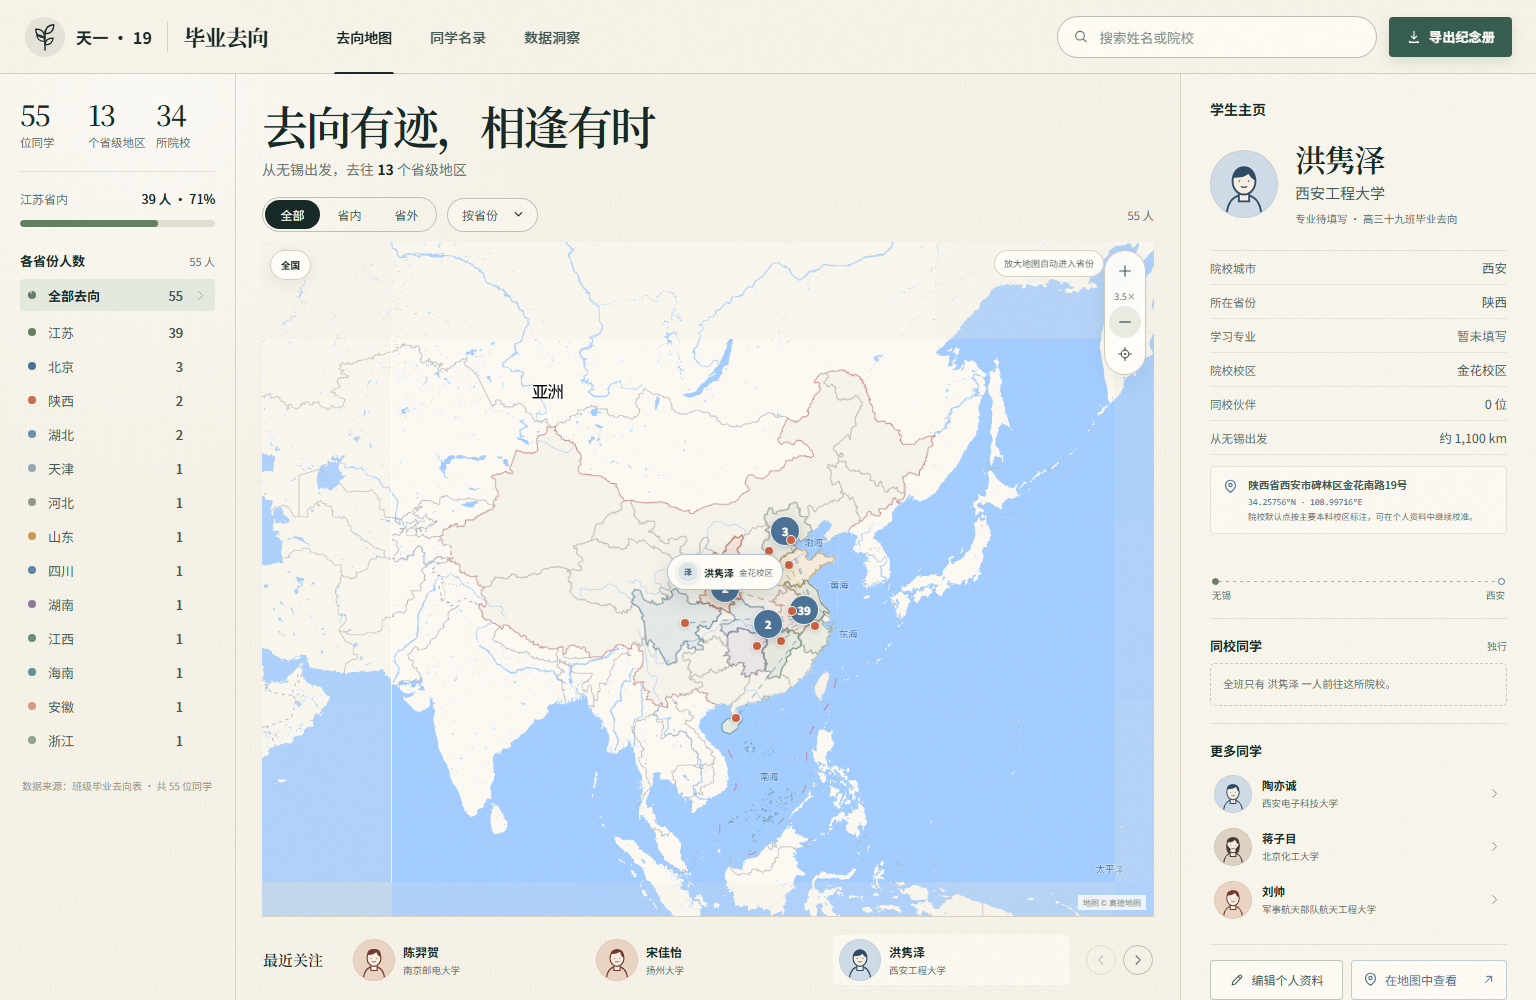
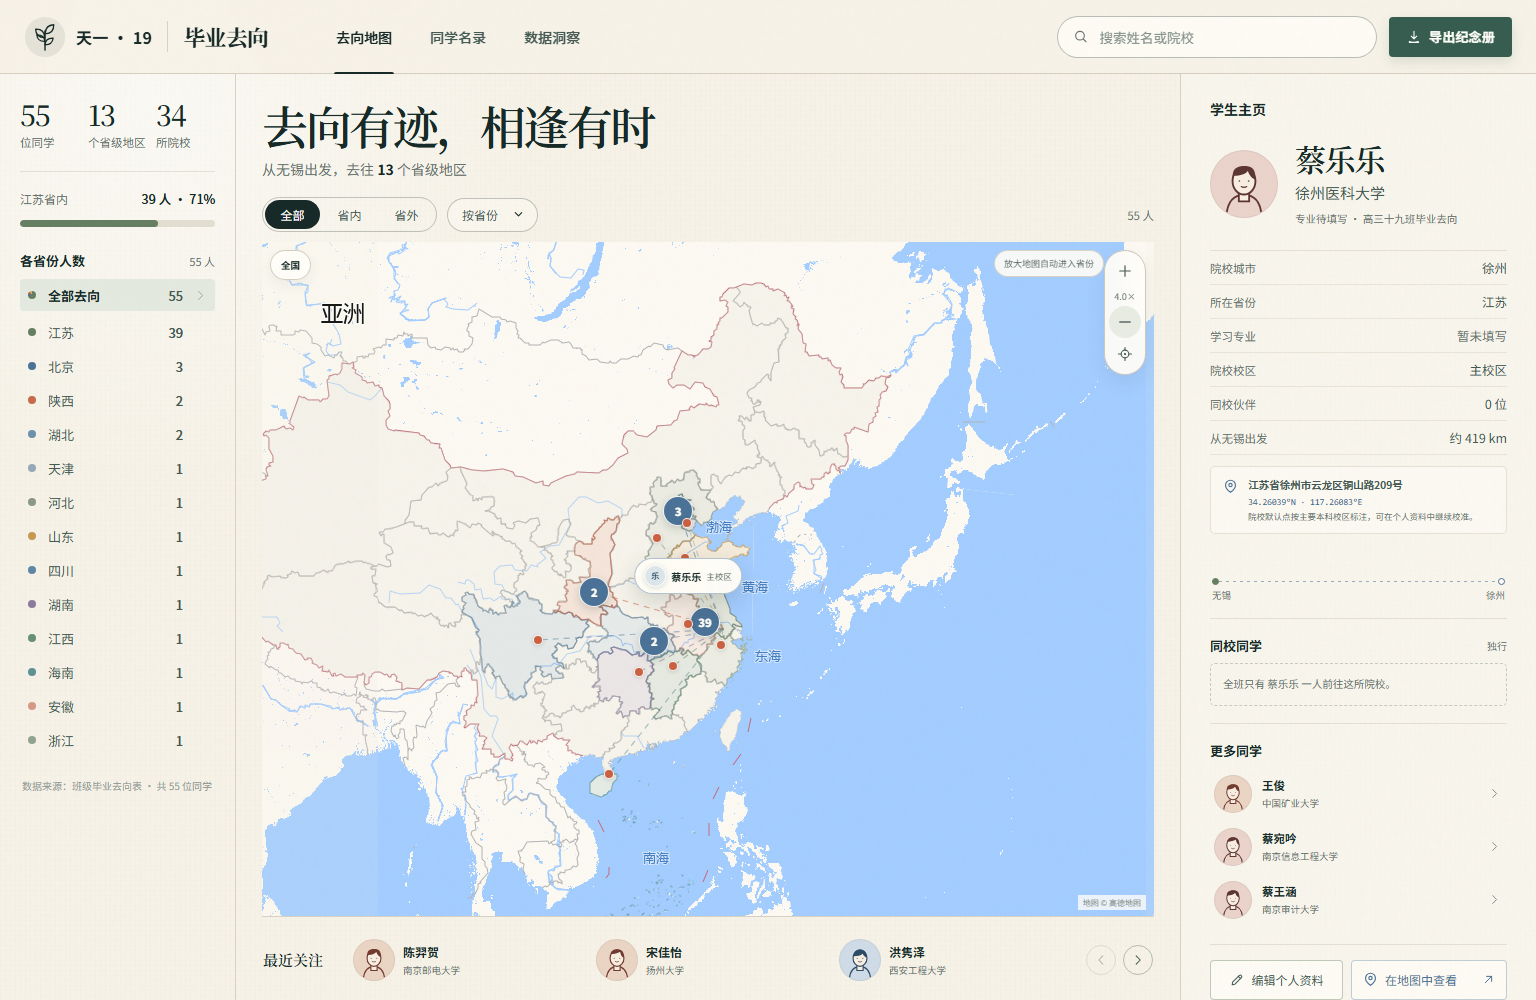
Sync map hierarchy with viewport movement

diff --git a/src/components/LeafletChinaMap.jsx b/src/components/LeafletChinaMap.jsx
@@ -15,6 +15,7 @@ const DEFAULT_ZOOM = 4;
 const AUTO_COUNTRY_ZOOM = 4.25;
 const AUTO_PROVINCE_ZOOM = 5.25;
 const AUTO_CITY_ZOOM = 9.25;
+const AUTO_CITY_EXIT_ZOOM = 8.25;
 
 function normalizeProvinceName(name) {
   return name
@@ -67,6 +68,7 @@ export default function LeafletChinaMap({
   focusRequest,
   onProvinceSelect,
   onCitySelect,
+  onAutoRegionChange,
   onStudentOpen,
   schoolOpenRequest,
   onZoomChange,
@@ -89,9 +91,12 @@ export default function LeafletChinaMap({
   const handlersRef = useRef({
     onProvinceSelect,
     onCitySelect,
+    onAutoRegionChange,
     onStudentOpen,
     onResetMapContext,
   });
+  const suppressNextFocusRef = useRef(false);
+  const autoRegionRequestLockRef = useRef(false);
   const [zoom, setZoom] = useState(DEFAULT_ZOOM);
   const [tilesFailed, setTilesFailed] = useState(false);
   const [compactMarkers, setCompactMarkers] = useState(
@@ -116,10 +121,39 @@ export default function LeafletChinaMap({
   }, [filteredStudents]);
   const resolvedCityCoordinatesRef = useRef(resolvedCityCoordinates);
   resolvedCityCoordinatesRef.current = resolvedCityCoordinates;
+  const cityRegionIndex = useMemo(() => {
+    const grouped = new Map();
+    provinceStudents.forEach((student) => {
+      const entry = grouped.get(student.city) ?? {
+        city: student.city,
+        province: student.province,
+        points: [],
+      };
+      entry.points.push(student.coordinates);
+      grouped.set(student.city, entry);
+    });
+    return new Map(
+      [...grouped.entries()].map(([city, entry]) => {
+        const staticCoordinates = cityCoordinates[city];
+        const coordinates = staticCoordinates
+          ? [staticCoordinates[1], staticCoordinates[0]]
+          : [
+              entry.points.reduce((sum, point) => sum + point[0], 0) /
+                entry.points.length,
+              entry.points.reduce((sum, point) => sum + point[1], 0) /
+                entry.points.length,
+            ];
+        return [city, { city, province: entry.province, coordinates }];
+      }),
+    );
+  }, [provinceStudents]);
+  const cityRegionIndexRef = useRef(cityRegionIndex);
+  cityRegionIndexRef.current = cityRegionIndex;
 
   handlersRef.current = {
     onProvinceSelect,
     onCitySelect,
+    onAutoRegionChange,
     onStudentOpen,
     onResetMapContext,
   };
@@ -152,41 +186,68 @@ export default function LeafletChinaMap({
     return matchedProvince ?? nearestProvince?.province ?? null;
   }
 
-  function nearestCityToCenter(center) {
+  function nearestCityToCenter(center, provinceName = "") {
     let nearest = null;
-    cityEntriesRef.current.forEach(([city]) => {
-      const coordinates = resolvedCityCoordinatesRef.current[city];
-      if (!coordinates) return;
-      const distance = L.latLng(coordinates[1], coordinates[0]).distanceTo(center);
-      if (!nearest || distance < nearest.distance) nearest = { city, distance };
+    cityRegionIndexRef.current.forEach((entry) => {
+      if (
+        provinceName &&
+        provinceName !== "全部" &&
+        entry.province !== provinceName
+      ) {
+        return;
+      }
+      const distance = L.latLng(
+        entry.coordinates[0],
+        entry.coordinates[1],
+      ).distanceTo(center);
+      if (!nearest || distance < nearest.distance) {
+        nearest = { city: entry.city, distance };
+      }
     });
-    return nearest?.distance <= 220000 ? nearest.city : null;
+    return nearest?.city ?? null;
   }
 
   function applyAutomaticMapLevel(map, nextZoom) {
     const context = mapContextRef.current;
     if (nextZoom <= AUTO_COUNTRY_ZOOM) {
       if (context.selectedProvince !== "全部" || context.activeCity) {
-        handlersRef.current.onResetMapContext?.();
+        if (autoRegionRequestLockRef.current) return;
+        autoRegionRequestLockRef.current = true;
+        suppressNextFocusRef.current = true;
+        handlersRef.current.onAutoRegionChange?.({
+          province: "全部",
+          city: null,
+        });
       }
       return;
     }
+    if (nextZoom < AUTO_PROVINCE_ZOOM) return;
+
+    const center = map.getCenter();
+    const province =
+      provinceAtCenter(center) ||
+      (context.selectedProvince !== "全部"
+        ? context.selectedProvince
+        : null);
+    if (!province) return;
+
+    const shouldShowCity =
+      nextZoom >= AUTO_CITY_ZOOM ||
+      (Boolean(context.activeCity) && nextZoom >= AUTO_CITY_EXIT_ZOOM);
+    const city = shouldShowCity
+      ? nearestCityToCenter(center, province)
+      : null;
     if (
-      nextZoom >= AUTO_PROVINCE_ZOOM &&
-      context.selectedProvince === "全部"
+      province !== context.selectedProvince ||
+      city !== context.activeCity
     ) {
-      const province = provinceAtCenter(map.getCenter());
-      if (province) handlersRef.current.onProvinceSelect(province);
-      return;
-    }
-    if (
-      nextZoom >= AUTO_CITY_ZOOM &&
-      !context.activeCity &&
-      context.selectedProvince !== "全部"
-    ) {
-      const city = nearestCityToCenter(map.getCenter());
-      if (city) handlersRef.current.onCitySelect(city);
-      return;
+      if (autoRegionRequestLockRef.current) return;
+      autoRegionRequestLockRef.current = true;
+      suppressNextFocusRef.current = true;
+      handlersRef.current.onAutoRegionChange?.({
+        province,
+        city,
+      });
     }
   }
 
@@ -481,12 +542,13 @@ export default function LeafletChinaMap({
         declutterSchoolMarkers();
       });
     });
-    map.on("moveend", () =>
+    map.on("moveend", () => {
+      applyAutomaticMapLevel(map, map.getZoom());
       window.requestAnimationFrame(() => {
         declutterCityMarkers();
         declutterSchoolMarkers();
-      }),
-    );
+      });
+    });
     map.on("click", (event) => {
       const groups = schoolGroupsRef.current;
       const clickPoint = map.latLngToContainerPoint(event.latlng);
@@ -634,12 +696,19 @@ export default function LeafletChinaMap({
     const map = mapRef.current;
     if (!map) return;
     if (focusRequest?.mode === "school") {
+      autoRegionRequestLockRef.current = false;
+      suppressNextFocusRef.current = false;
       const coordinates = focusRequest.coordinates;
       if (coordinates) {
         map.flyTo([coordinates[0], coordinates[1]], 16, {
           duration: 0.65,
         });
       }
+      return;
+    }
+    if (suppressNextFocusRef.current) {
+      autoRegionRequestLockRef.current = false;
+      suppressNextFocusRef.current = false;
       return;
     }
     if (activeCity && schoolGroups.length) {

diff --git a/src/components/MapView.jsx b/src/components/MapView.jsx
@@ -152,6 +152,13 @@ export default function MapView({
     onProvinceSelect("全部");
   }
 
+  function handleAutoRegionChange({ province = "全部", city = null }) {
+    setFocusRequest(null);
+    setSchoolOpenRequest(null);
+    setActiveCity(city);
+    onProvinceSelect(province || "全部");
+  }
+
   return (
     <main className="map-main">
       <div className="map-heading-row">
@@ -251,6 +258,7 @@ export default function MapView({
           focusRequest={externalFocusRequest ?? focusRequest}
           onProvinceSelect={handleProvinceChange}
           onCitySelect={focusCity}
+          onAutoRegionChange={handleAutoRegionChange}
           onResetMapContext={resetMapContext}
           onStudentOpen={(studentId) => {
             onSelectStudent(studentId);

diff --git a/README.md b/README.md
@@ -43,7 +43,7 @@ npm run build:static
 - 城市层：院校按主要本科校区定位。单人去向点击后直接打开个人主页；多人院校先打开同学名单。
 - 当多个院校距离过近时，人数标记会自动防碰撞扇开，并在真实校区坐标保留小定位点，避免文字与标记叠压。
 - 支持滚轮、双击、缩放按钮、拖动平移、面包屑返回，以及从个人主页“在地图中查看”直接定位到街道级。
-- 地图缩放会自动切换层级：放大地图进入有同学去向的省份，再继续放大进入最近城市；缩回国家范围时自动恢复全国视图。
+- 地图缩放和平移会自动切换层级：拖动地图后会识别视口中心的省份，放大地图进入该省，再继续放大进入最近城市；缩回国家范围时自动恢复全国视图。
 - 地图标记直接联动个人主页；不同校区会按“学校 + 校区 + 坐标”分开显示。
 - 当前选中同学在全国、省份和城市地图层级都会保留一个“姓名 + 校区”的个人锁定点，点击可直接返回个人主页；刷新页面后会继续恢复上次查看的同学。
 
